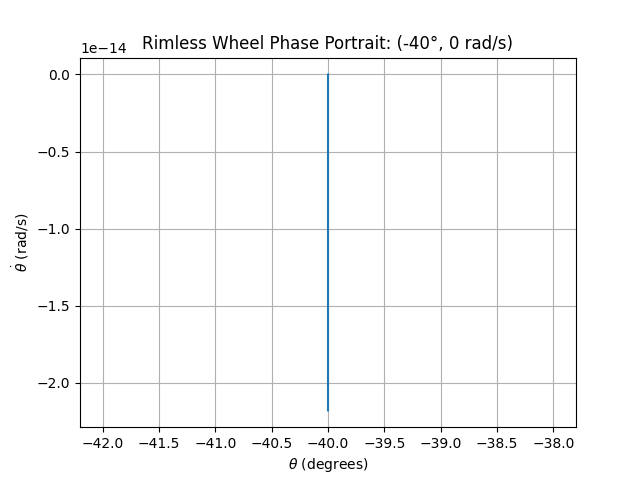
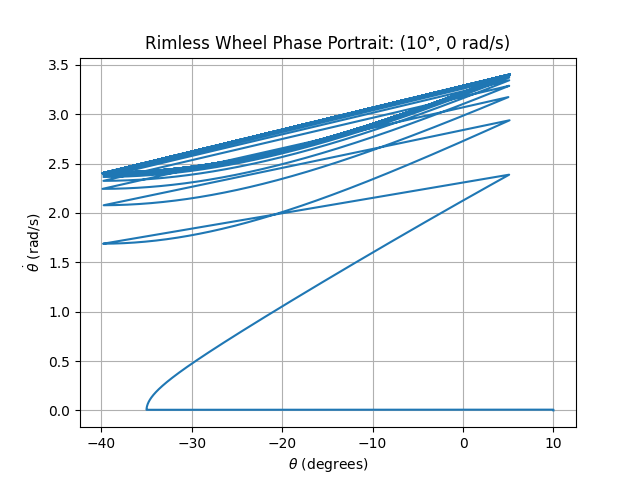
ss

diff --git a/assignment_1/rimless_wheel_sanity.py b/assignment_1/rimless_wheel_sanity.py
@@ -28,7 +28,7 @@ times, angles, angular_velocities = model.simulate_rimless_wheel(
     initial_state,
     params,
     time_step=0.001,
-    total_time=20.0
+    total_time=5.0
 )
 
 print("theta:", np.rad2deg(angles[:10]))
@@ -61,11 +61,11 @@ plt.close()
 
 # Choose ONE initial condition at a time here.
 # Change these values when you want to test another state.
-'''
+
 params = model.generate_params()
 params["slope_angle"] = np.deg2rad(40)
 
-theta_deg = -40
+theta_deg = 10
 theta_dot = 0
 
 initial_state = np.array([
@@ -103,14 +103,15 @@ plt.savefig(
 plt.close()
 
 
+'''
 # ============================================================
 # Sanity Check 2: Multiple initial conditions
 # ============================================================
-'''
-'''
+
+
 #initial_conditions = [
-#    (40, 0)
-]
+#    (40, 0)]
+
 
 plt.figure()
 
@@ -219,7 +220,6 @@ plt.close()
 # Example Unclassified Trajectory
 # ============================================================
 
-'''
 def simulate_trajectory(
     initial_state,
     params,
@@ -270,8 +270,8 @@ def simulate_trajectory(
 
 
 initial_state = np.array([
-    np.deg2rad(-17.75),
-    -5.0
+    np.deg2rad(-20),
+    0
 ])
 
 times, states = simulate_trajectory(
@@ -323,4 +323,3 @@ plt.savefig(
 )
 
 plt.close()
-'''

diff --git a/assignment_1/rimless_wheel.py b/assignment_1/rimless_wheel.py
@@ -7,7 +7,7 @@ def generate_params():
     return {
         "gravity": 9.81,
         "spoke_length": 1.0,
-        "slope_angle": np.deg2rad(20),  # 20 degrees, converted to radians
+        "slope_angle": np.deg2rad(20),
         "num_spokes": 8
     }
 
@@ -73,17 +73,14 @@ def simulate_rimless_wheel(initial_state, params, time_step, total_time):
 
     for step in range(num_steps):
 
-        # Record the current state
         times[step] = current_time
         angles[step] = wheel_state[0]
         angular_velocities[step] = wheel_state[1]
 
-        # Check for an impact
         if detect_impact(wheel_state, params):
             wheel_state = spoke_reset(wheel_state, params)
 
 
-        # Integrate the continuous dynamics
         wheel_state = rk4(
             current_time,
             wheel_state,
@@ -92,7 +89,6 @@ def simulate_rimless_wheel(initial_state, params, time_step, total_time):
             params
         )
 
-        # Wrap theta to [-pi, pi)
         wheel_state[0] = (
             (wheel_state[0] + np.pi) % (2 * np.pi)
             - np.pi

diff --git a/assignment_1/assignment_1_abha.md b/assignment_1/assignment_1_abha.md
@@ -14,114 +14,144 @@ Assignment 1 Deliverable - A markdown file reporting:
 -------------------------------------------------------------------------
 -------------------------------------------------------------------------
 
-1.
-Sanity Check 1: Plotted angle (theta) vs time just to get a general sense of movement and whether it matched the Idea I had in my head. For instance, a wheel staying stationary would be a striaght line, while a rolling wheel would have a periodic sawtooth plot as the angle resets after each impact.
+## 1. Sanity Checks
+
+### 1.1 Angle vs. Time
+
+I first plotted the stance-spoke angle $\theta$ versus time to get a general sense of the wheel's motion and verify that the simulation behaved as expected. For a stationary wheel, I would expect $\theta$ to remain constant, producing a horizontal line. In contrast, a rolling rimless wheel should produce a periodic sawtooth-like trajectory, since the stance spoke angle increases until impact and then resets when the next spoke becomes the stance spoke.
+
+The figure below shows two example simulations with zero initial angular velocity. The first uses $(\theta,\dot{\theta})=(20^\circ,0)$, while the second uses $(\theta,\dot{\theta})=(-40^\circ,0)$ with a slope angle of $40^\circ$.
+
+![Initial conditions (20^\circ,0)](assignment_1/20_0_angle_time plot.png)
+![Initial conditions (-40^\circ,0)](assignment_1/slope_40_minus40_0_angle_time.png)
+
+These plots provide a qualitative check that the continuous dynamics and impact/reset behavior produce the expected rimless-wheel motion.
+
+### 1.2 Phase Portrait
+
+I also plotted the trajectory in state space, using $\theta$ and $\dot{\theta}$ as the state variables. The initial condition for this test was $(\theta,\dot{\theta})=(10^\circ,0)$.
+
+![Initial conditions (10^\circ,0)](assignment_1/phase_10_0_plot.png)
+
+The phase portrait provides an additional qualitative check of the simulated dynamics by showing how angular position and angular velocity evolve together through the continuous and impact phases of the motion.
 
 -------------------------------------------------------------------------
 
-2. (note for -pi to pi, 0 to 18, 101x101: Number of equilibrium points: 0
-Number of limit-cycle points: 9235
-Number of unclassified points: 966)
+## 2. Region of Attraction
 
-(note for 0 to 2pi, 0 to 18, 360x360: Number of equilibrium points: 1
-Number of limit-cycle points: 12599
-Number of unclassified points: 0)
+I estimated the region of attraction (RoA) by simulating a grid of initial conditions and classifying each trajectory based on its long-term behavior. A trajectory was classified as converging to the walking limit cycle if its final five impact velocities differed by less than 0.05 rad/s.
 
--------------------------------------------------------------------------
+For a $101\times101$ grid with $\theta\in[-\pi,\pi)$ and $\dot{\theta}\in[0,18]$ rad/s, the simulation produced:
 
-3. (N=8, Slope=20 degrees, initial_state = np.array([
-    np.deg2rad(25), 0]))
+- Equilibrium: 0 points
+- Limit cycle: 9235 points
+- Unclassified: 966 points
 
-Pre-impact fixed point: 3.393514872020504 rad/s
-Post-impact fixed point: 2.3995773780630976 rad/s
-Perturbed post-impact velocities:
-Low: 2.389577378063098 -> 2.3943976217546945
-High: 2.4095773780630974 -> 2.403994583035602
-Estimated Floquet multiplier: 0.47984806404537395
+(Rimless_Wheel_RoA_101x101_minuspi_to_pi.png)
 
--------------------------------------------------------------------------
+Having run the rimless wheel sim on it's own before this, I found an unstable equlilibium (no movement unless perturbed) at $(\theta,\dot{\theta})=(-\gamma,0)$. For the $20^\circ$ slope used here, this corresponds to approximately $(-20^\circ,0)$. The equilibrium does not appear in the $101\times101$ grid because the finite grid spacing is too coarse sample this exact point. However, a finre grid could not be used due to computing time constraints. Therefore, the absence of an equilibrium point in the classification is a consequence of the grid resolution rather than the equilibrium being absent from the system.
 
-4.
+I also repeated the calculation using a finer $360\times360$ grid with $\theta\in[0,2\pi)$ and $\dot{\theta}\in[0,18]$ rad/s - such a fine grid was only used on this one occasion because it was too time-consuming to do repeatedly. This produced:
 
-The Floquet multiplier remained essentially constant as slope inclination was varied from 5° to 35°. The numerical value was approximately 0.480
+- Equilibrium: 1 point
+- Limit cycle: 129599 points
+- Unclassified: 0 points
 
-============================================================
-Slope SWEEP SUMMARY
-============================================================
-Slope = 5
-  Equilibrium:      0 (  0.00%)
-  Limit cycle:   8909 ( 89.09%)
-  Unclassified:  1091 ( 10.91%)
+(Rimless Wheel RoA 360x360 0to2pi 0to18.png)
 
-Slope = 10
-  Equilibrium:      0 (  0.00%)
-  Limit cycle:   8960 ( 89.60%)
-  Unclassified:  1040 ( 10.40%)
+The finer grid happened to include the equilibrium point, while all other sampled initial conditions were classified as converging to the walking limit cycle. The equilibrium point is a single point on the plot and due to the fine resolution, it is not visible, even though it is on there.
 
-Slope = 15
-  Equilibrium:      0 (  0.00%)
-  Limit cycle:   9005 ( 90.05%)
-  Unclassified:   995 (  9.95%)
-
-Slope = 20
-  Equilibrium:      0 (  0.00%)
-  Limit cycle:   9055 ( 90.55%)
-  Unclassified:   945 (  9.45%)
-
-Slope = 25
-  Equilibrium:      0 (  0.00%)
-  Limit cycle:   9101 ( 91.01%)
-  Unclassified:   899 (  8.99%)
-
-Slope = 30
-  Equilibrium:      0 (  0.00%)
-  Limit cycle:   9147 ( 91.47%)
-  Unclassified:   853 (  8.53%)
-
-Slope = 35
-  Equilibrium:      0 (  0.00%)
-  Limit cycle:   9200 ( 92.00%)
-  Unclassified:   800 (  8.00%)
-
-
-
-============================================================
-Number of spokes SWEEP SUMMARY
-============================================================
-Number of spokes = 6
-  Equilibrium:      0 (  0.00%)
-  Limit cycle:   9054 ( 90.54%)
-  Unclassified:   946 (  9.46%)
-
-Number of spokes = 7
-  Equilibrium:      0 (  0.00%)
-  Limit cycle:   9055 ( 90.55%)
-  Unclassified:   945 (  9.45%)
-
-Number of spokes = 8
-  Equilibrium:      0 (  0.00%)
-  Limit cycle:   9055 ( 90.55%)
-  Unclassified:   945 (  9.45%)
-
-Number of spokes = 9
-  Equilibrium:      0 (  0.00%)
-  Limit cycle:   9055 ( 90.55%)
-  Unclassified:   945 (  9.45%)
-
-Number of spokes = 10
-  Equilibrium:      0 (  0.00%)
-  Limit cycle:   9055 ( 90.55%)
-  Unclassified:   945 (  9.45%)
-
-Number of spokes = 11
-  Equilibrium:      0 (  0.00%)
-  Limit cycle:   9055 ( 90.55%)
-  Unclassified:   945 (  9.45%)
-
-Number of spokes = 12
-  Equilibrium:      0 (  0.00%)
-  Limit cycle:   9055 ( 90.55%)
-  Unclassified:   945 (  9.45%)
+This result is consistent with the expected behavior of the model.
 
 -------------------------------------------------------------------------
+
+## 3. Return Map and Floquet Multiplier
+
+For $N=8$ spokes and a slope angle of $20^\circ$, I constructed a one-dimensional return map using the pre-impact angular velocity as the Poincaré-section variable. The initial condition used to generate the trajectory was
+
+$$
+(\theta,\dot{\theta})=(25^\circ,0).
+$$
+
+The resulting return map converged to a fixed point at
+
+$$
+\dot{\theta}^-_* = 3.394\ \text{rad/s},
+$$
+
+where $\dot{\theta}^-$ denotes the angular velocity immediately before impact. The corresponding post-impact angular velocity was
+
+$$
+\dot{\theta}^+_* = 2.400\ \text{rad/s}.
+$$
+
+![Return map](Rimless Wheel Return Map.png)
+
+To estimate the Floquet multiplier, I perturbed the post-impact fixed point by $\pm0.01$ rad/s and measured the resulting post-impact velocity at the next crossing. The perturbations produced
+
+$$
+2.3896 \rightarrow 2.3944\ \text{rad/s}
+$$
+
+and
+
+$$
+2.4096 \rightarrow 2.4040\ \text{rad/s}.
+$$
+
+Using the local slope of the return map gave an estimated Floquet multiplier of
+
+$$
+\lambda \approx 0.480.
+$$
+
+Since $|\lambda|<1$, small perturbations from the fixed point decay from one step to the next, indicating that the rolling limit cycle is locally stable.
+
+-------------------------------------------------------------------------
+### Slope Sweep
+
+The Floquet multiplier remained essentially constant as slope inclination was varied from $5^\circ$ to $35^\circ$. The numerical value was approximately $0.480$.
+
+![Slope sweep for Floquet Multiplier](Floquet vs Slope.png)
+
+Each sweep used a $101\times101$ grid, for a total of 10,201 initial conditions.
+
+| Slope angle | Equilibrium | Limit cycle | Unclassified |
+|---:|---:|---:|---:|
+| $5^\circ$  | 0 (0.00%) | 8,909 (89.09%) | 1,091 (10.91%) |
+| $10^\circ$ | 0 (0.00%) | 8,960 (89.60%) | 1,040 (10.40%) |
+| $15^\circ$ | 0 (0.00%) | 9,005 (90.05%) | 995 (9.95%) |
+| $20^\circ$ | 0 (0.00%) | 9,055 (90.55%) | 945 (9.45%) |
+| $25^\circ$ | 0 (0.00%) | 9,101 (91.01%) | 899 (8.99%) |
+| $30^\circ$ | 0 (0.00%) | 9,147 (91.47%) | 853 (8.53%) |
+| $35^\circ$ | 0 (0.00%) | 9,200 (92.00%) | 800 (8.00%) |
+
+As the slope angle increased, the fraction of initial conditions classified as converging to the limit cycle increased from $89.09\%$ to $92.00\%$, while the unclassified fraction decreased from $10.91\%$ to $8.00\%$.
+
+Increasing the slope slightly increased the region classified as belonging to the walking limit cycle over the sampled state space. However, the Floquet multiplier remained approximately $0.480$, indicating that the slope had little effect on the local convergence rate of the limit cycle.
+
+![Slope sweep for RoA](RoA Slope Sweep.png)
+
+
+### Number of Spokes Sweep
+
+The number of spokes was varied from 6 to 12 while keeping the slope angle fixed at $20^\circ$. The same $101\times101$ grid was used for each case.
+
+![Number of spokes sweep for Floquet Multiplier](Floquet vs Number of Spokes.png)
+
+| Number of spokes | Equilibrium | Limit cycle | Unclassified |
+|---:|---:|---:|---:|
+| 6  | 0 (0.00%) | 9,054 (90.54%) | 946 (9.46%) |
+| 7  | 0 (0.00%) | 9,055 (90.55%) | 945 (9.45%) |
+| 8  | 0 (0.00%) | 9,055 (90.55%) | 945 (9.45%) |
+| 9  | 0 (0.00%) | 9,055 (90.55%) | 945 (9.45%) |
+| 10 | 0 (0.00%) | 9,055 (90.55%) | 945 (9.45%) |
+| 11 | 0 (0.00%) | 9,055 (90.55%) | 945 (9.45%) |
+| 12 | 0 (0.00%) | 9,055 (90.55%) | 945 (9.45%) |
+
+Over the sampled $101\times101$ state-space grid, changing the number of spokes from 6 to 12 produced almost no change in the fraction of states classified as converging to the limit cycle. The classification remained approximately $90.5\%$ limit-cycle states and $9.5\%$ unclassified states. This suggests that the global RoA, as measured by this particular grid and classification criterion, is relatively insensitive to the number of spokes.
+
+However, the number of spokes does affect the local stability of the walking cycle. The Floquet multiplier as increasing the number of spokes makes $\lambda$ larger and closer to 1. Therefore, although the measured global RoA changed very little in this sweep, increasing the number of spokes causes perturbations to decay more slowly from one step to the next.
+
+![Number of spokes sweep for RoA](RoA Spoke Sweep.png)
 
